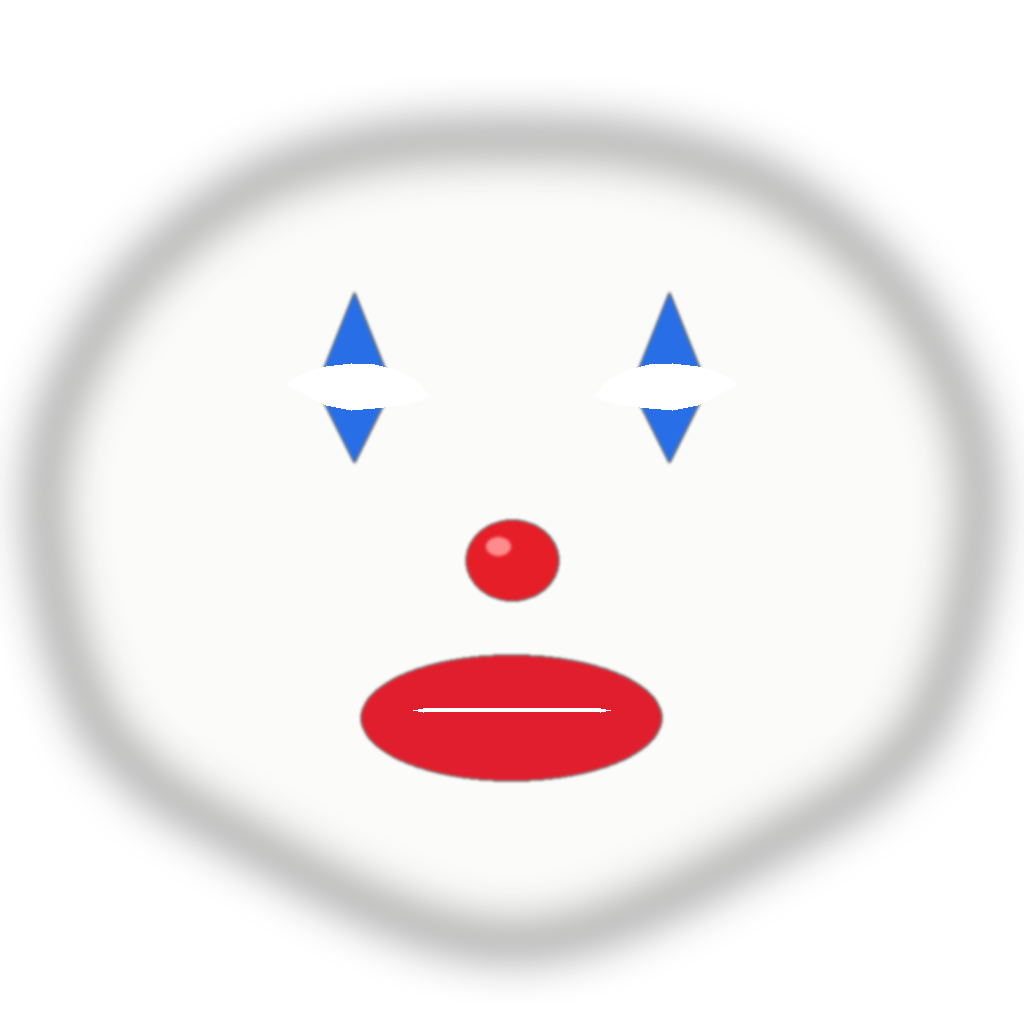
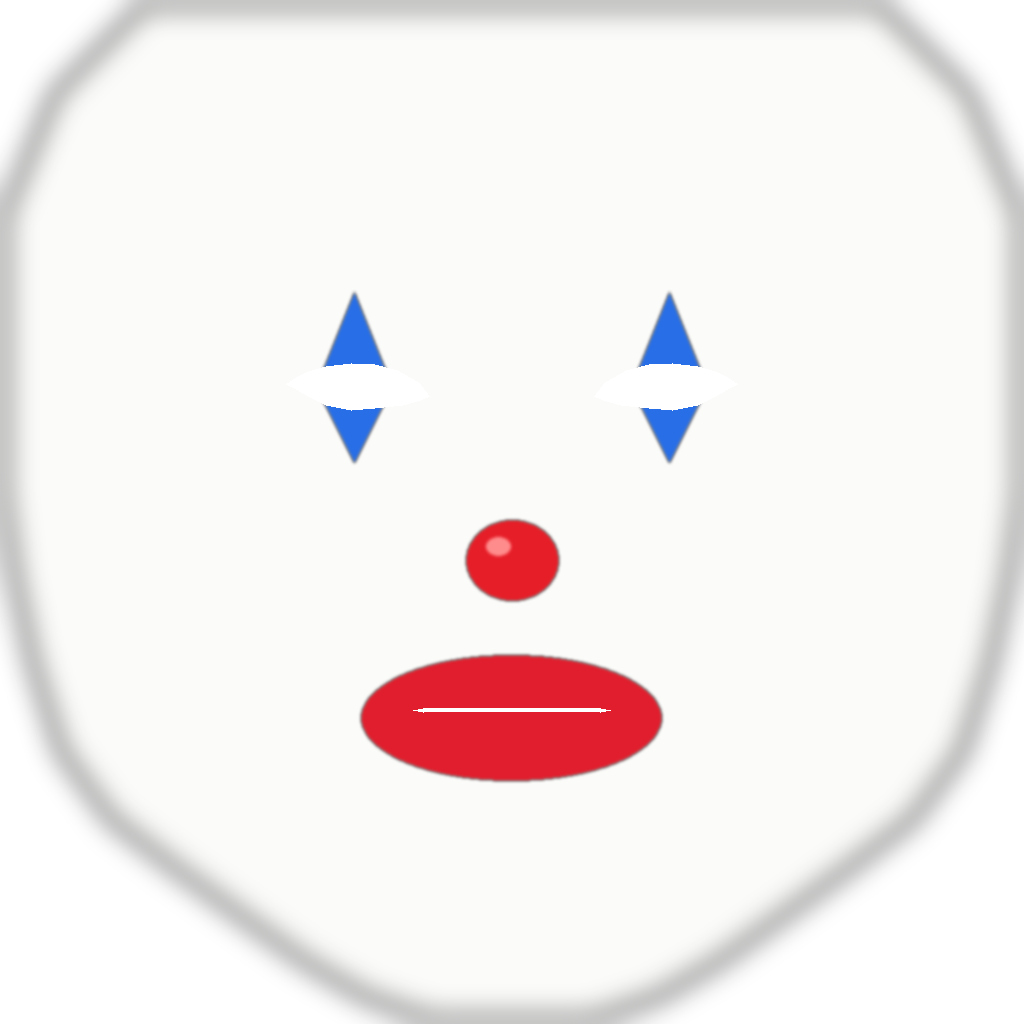
Face paint mesh carries on up the forehead and under the chin (fading out, and off hair); full-face paints fill it

Changed region(s): [[0.0, 0.0, 1.0, 1.0]]

diff --git a/web/js/facemesh.js b/web/js/facemesh.js
@@ -1,4 +1,8 @@
 // Lensmith face-paint mesh (from MediaPipe's canonical face model, Apache-2.0); made by
-// docs/face-paint/make_mesh.py. Triangles index the 468 face landmarks; UV has v pointing down.
-export const FACE_TRIANGLES = [356,389,264,127,34,162,368,264,389,139,162,34,267,0,302,37,72,0,11,302,0,11,0,72,349,451,350,120,121,231,452,350,451,232,231,121,267,302,269,37,39,72,303,269,302,73,72,39,357,343,350,128,121,114,277,350,343,47,114,121,350,452,357,121,128,232,453,357,452,233,232,128,299,333,297,69,67,104,332,297,333,103,104,67,175,152,396,175,171,152,377,396,152,148,152,171,280,347,330,50,101,118,348,330,347,119,118,101,269,303,270,39,40,73,304,270,303,74,73,40,9,336,151,9,151,107,337,151,336,108,107,151,344,278,360,115,131,48,279,360,278,49,48,131,262,431,418,32,194,211,424,418,431,204,211,194,304,408,270,74,40,184,409,270,408,185,184,40,272,407,310,42,80,183,415,310,407,191,183,80,322,270,410,92,186,40,409,410,270,185,40,186,347,449,348,118,119,229,450,348,449,230,229,119,434,432,430,214,210,212,422,430,432,202,212,210,313,314,18,83,18,84,17,18,314,17,84,18,307,375,306,77,76,146,291,306,375,61,146,76,259,387,260,29,30,160,388,260,387,161,160,30,286,414,384,56,157,190,398,384,414,173,190,157,418,424,406,194,182,204,335,406,424,106,204,182,367,416,364,138,135,192,434,364,416,214,192,135,391,423,327,165,98,203,358,327,423,129,203,98,298,301,284,68,54,71,251,284,301,21,71,54,4,275,5,4,5,45,281,5,275,51,45,5,254,373,253,24,23,144,374,253,373,145,144,23,320,321,307,90,77,91,375,307,321,146,91,77,280,425,411,50,187,205,427,411,425,207,205,187,421,313,200,201,200,83,18,200,313,18,83,200,335,321,406,106,182,91,405,406,321,181,91,182,405,321,404,181,180,91,320,404,321,90,91,180,17,314,16,17,16,84,315,16,314,85,84,16,425,266,426,205,206,36,423,426,266,203,36,206,369,396,400,140,176,171,377,400,396,148,171,176,391,269,322,165,92,39,270,322,269,40,39,92,417,465,413,193,189,245,464,413,465,244,245,189,257,258,386,27,159,28,385,386,258,158,28,159,260,388,467,30,247,161,466,467,388,246,161,247,248,456,419,3,196,236,399,419,456,174,236,196,333,298,332,104,103,68,284,332,298,54,68,103,285,8,417,55,193,8,168,417,8,168,8,193,340,261,346,111,117,31,448,346,261,228,31,117,285,417,441,55,221,193,413,441,417,189,193,221,327,460,326,98,97,240,328,326,460,99,240,97,277,355,329,47,100,126,371,329,355,142,126,100,309,392,438,79,218,166,439,438,392,219,166,218,381,382,256,154,26,155,341,256,382,112,155,26,360,279,420,131,198,49,429,420,279,209,49,198,365,364,379,136,150,135,394,379,364,169,135,150,355,277,437,126,217,47,343,437,277,114,47,217,443,444,282,223,52,224,283,282,444,53,224,52,281,275,363,51,134,45,440,363,275,220,45,134,431,262,395,211,170,32,369,395,262,140,32,170,337,299,338,108,109,69,297,338,299,67,69,109,335,273,321,106,91,43,375,321,273,146,43,91,348,450,349,119,120,230,451,349,450,231,230,120,467,359,342,247,113,130,446,342,359,226,130,113,282,283,334,52,105,53,293,334,283,63,53,105,250,458,462,20,242,238,461,462,458,241,238,242,276,353,300,46,70,124,383,300,353,156,124,70,325,292,324,96,95,62,308,324,292,78,62,95,283,276,293,53,63,46,300,293,276,70,46,63,447,264,345,227,116,34,372,345,264,143,34,116,352,345,346,123,117,116,340,346,345,111,116,117,1,19,274,1,44,19,354,274,19,125,19,44,248,281,456,3,236,51,363,456,281,134,51,236,425,426,427,205,207,206,436,427,426,216,206,207,380,381,252,153,22,154,256,252,381,26,154,22,391,393,269,165,39,167,267,269,393,37,167,39,199,428,200,199,200,208,421,200,428,201,208,200,330,329,266,101,36,100,371,266,329,142,100,36,422,432,273,202,43,212,287,273,432,57,212,43,290,250,328,60,99,20,462,328,250,242,20,99,258,286,385,28,158,56,384,385,286,157,56,158,342,446,353,113,124,226,265,353,446,35,226,124,257,386,259,27,29,159,387,259,386,160,159,29,430,422,431,210,211,202,424,431,422,204,202,211,445,342,276,225,46,113,353,276,342,124,113,46,424,422,335,204,106,202,273,335,422,43,202,106,306,292,307,76,77,62,325,307,292,96,62,77,366,447,352,137,123,227,345,352,447,116,227,123,302,268,303,72,73,38,271,303,268,41,38,73,371,358,266,142,36,129,423,266,358,203,129,36,327,294,460,98,240,64,455,460,294,235,64,240,294,331,278,64,48,102,279,278,331,49,102,48,303,271,304,73,74,41,272,304,271,42,41,74,427,436,434,207,214,216,432,434,436,212,216,214,304,272,408,74,184,42,407,408,272,183,42,184,394,430,395,169,170,210,431,395,430,211,210,170,395,369,378,170,149,140,400,378,369,176,140,149,296,334,299,66,69,105,333,299,334,104,105,69,417,168,351,193,122,168,6,351,168,6,168,122,280,411,352,50,123,187,376,352,411,147,187,123,319,320,325,89,96,90,307,325,320,77,90,96,285,295,336,55,107,65,296,336,295,66,65,107,404,320,403,180,179,90,319,403,320,89,90,179,330,348,329,101,100,119,349,329,348,120,119,100,334,293,333,105,104,63,298,333,293,68,63,104,323,454,366,93,137,234,447,366,454,227,234,137,16,315,15,16,15,85,316,15,315,86,85,15,429,279,358,209,129,49,331,358,279,102,49,129,15,316,14,15,14,86,317,14,316,87,86,14,8,285,9,8,9,55,336,9,285,107,55,9,329,349,277,100,47,120,350,277,349,121,120,47,252,253,380,22,153,23,374,380,253,145,23,153,402,403,318,178,88,179,319,318,403,89,179,88,351,6,419,122,196,6,197,419,6,197,6,196,324,318,325,95,96,88,319,325,318,89,88,96,397,367,365,172,136,138,364,365,367,135,138,136,288,435,397,58,172,215,367,397,435,138,215,172,438,439,344,218,115,219,278,344,439,48,219,115,271,311,272,41,42,81,310,311,272,80,42,81,5,281,195,5,195,51,248,195,281,3,51,195,273,287,375,43,146,57,291,375,287,61,57,146,396,428,175,171,175,208,199,175,428,199,208,175,268,312,271,38,41,82,311,271,312,81,82,41,444,445,283,224,53,225,276,283,445,46,225,53,254,339,373,24,144,110,390,373,339,163,110,144,295,282,296,65,66,52,334,296,282,105,52,66,346,448,347,117,118,228,449,347,448,229,228,118,454,356,447,234,227,127,264,447,356,34,127,227,336,296,337,107,108,66,299,337,296,69,66,108,151,337,10,151,10,108,338,10,337,109,108,10,278,439,294,48,64,219,455,294,439,235,219,64,407,292,415,183,191,62,308,292,415,78,191,62,358,371,429,129,209,142,355,429,371,126,142,209,345,372,340,116,111,143,265,340,372,35,143,111,352,346,280,123,50,117,347,280,346,118,117,50,295,442,282,65,52,222,443,282,442,223,222,52,19,94,354,19,125,94,370,354,94,141,94,125,295,285,442,65,222,55,441,442,285,221,55,222,419,197,248,196,3,197,195,248,197,195,197,3,359,263,255,130,25,33,249,255,263,7,33,25,275,274,440,45,220,44,457,440,274,237,44,220,300,383,301,70,71,156,368,301,383,139,156,71,417,351,465,193,245,122,412,465,351,188,122,245,466,263,467,246,247,33,359,467,263,130,33,247,389,251,368,162,139,21,301,368,251,71,21,139,379,394,378,150,149,169,395,378,394,170,169,149,351,419,412,122,188,196,399,412,419,174,196,188,426,322,436,206,216,92,410,436,322,186,92,216,393,326,164,167,164,97,2,164,326,2,97,164,354,370,461,125,241,141,462,461,370,242,141,241,0,267,164,0,164,37,393,164,267,167,37,164,11,12,302,11,72,12,268,302,12,38,12,72,12,13,268,12,38,13,312,268,13,82,13,38,293,300,298,63,68,70,301,298,300,71,70,68,340,265,261,111,31,35,446,261,265,226,35,31,280,330,425,50,205,101,266,425,330,36,101,205,423,391,426,203,206,165,322,426,391,92,165,206,429,355,420,209,198,126,437,420,355,217,126,198,391,327,393,165,167,98,326,393,327,97,98,167,457,438,440,237,220,218,344,440,438,115,218,220,382,362,341,155,112,133,463,341,362,243,133,112,457,461,459,237,239,241,458,461,459,238,239,241,434,430,364,214,135,210,394,364,430,169,210,135,414,463,398,190,173,243,362,398,463,133,243,173,262,428,369,32,140,208,396,369,428,171,208,140,457,274,461,237,241,44,354,461,274,125,44,241,316,403,317,86,87,179,402,317,403,178,179,87,315,404,316,85,86,180,403,316,404,179,180,86,314,405,315,84,85,181,404,315,405,180,181,85,313,406,314,83,84,182,405,314,406,181,182,84,418,406,421,194,201,182,313,421,406,83,182,201,366,401,323,137,93,177,361,323,401,132,177,93,408,407,306,184,76,183,292,306,407,62,183,76,408,306,409,184,185,76,291,409,306,61,76,185,410,409,287,186,57,185,291,287,409,61,185,57,436,410,432,216,212,186,287,432,410,57,186,212,434,416,427,214,207,192,411,427,416,187,192,207,264,368,372,34,143,139,383,372,368,156,139,143,457,459,438,237,218,239,309,438,459,79,239,218,352,376,366,123,137,147,401,366,376,177,147,137,4,1,275,4,45,1,274,275,1,44,1,45,428,262,421,208,201,32,418,421,262,194,32,201,327,358,294,98,64,129,331,294,358,102,129,64,367,435,416,138,192,215,433,416,435,213,215,192,455,439,289,235,59,219,392,289,439,166,219,59,328,462,326,99,97,242,370,326,462,141,242,97,326,370,2,97,2,141,94,2,370,94,141,2,460,455,305,240,75,235,289,305,455,59,235,75,448,339,449,228,229,110,254,449,339,24,110,229,261,446,255,31,25,226,359,255,446,130,226,25,449,254,450,229,230,24,253,450,254,23,24,230,450,253,451,230,231,23,252,451,253,22,23,231,451,252,452,231,232,22,256,452,252,26,22,232,256,341,452,26,232,112,453,452,341,233,112,232,413,464,414,189,190,244,463,414,464,243,244,190,441,413,286,221,56,189,414,286,413,190,189,56,441,286,442,221,222,56,258,442,286,28,56,222,442,258,443,222,223,28,257,443,258,27,28,223,444,443,259,224,29,223,257,259,443,27,223,29,259,260,444,29,224,30,445,444,260,225,30,224,260,467,445,30,225,247,342,445,467,113,247,225,250,309,458,20,238,79,459,458,309,239,79,238,290,305,392,60,166,75,289,392,305,59,75,166,460,305,328,240,99,75,290,328,305,60,75,99,376,433,401,147,177,213,435,401,433,215,213,177,250,290,309,20,79,60,392,309,290,166,60,79,411,416,376,187,147,192,433,376,416,213,192,147,341,463,453,112,233,243,464,453,463,244,243,233,453,464,357,233,128,244,465,357,464,245,244,128,412,343,465,188,245,114,357,465,343,128,114,245,437,343,399,217,174,114,412,399,343,188,114,174,363,440,360,134,131,220,344,360,440,115,220,131,456,420,399,236,174,198,437,399,420,217,198,174,456,363,420,236,198,134,360,420,363,131,134,198,361,401,288,132,58,177,435,288,401,215,177,58,353,265,383,124,156,35,372,383,265,143,35,156,255,249,339,25,110,7,390,339,249,163,7,110,261,255,448,31,228,25,339,448,255,110,25,228];
-export const FACE_UV = [0.49998,0.65253,0.50003,0.54749,0.49997,0.60237,0.48211,0.47198,0.50015,0.52716,0.49991,0.49825,0.49952,0.40106,0.28971,0.38076,0.49995,0.3124,0.49999,0.26992,0.50002,0.10705,0.50002,0.66623,0.50002,0.67922,0.50002,0.69235,0.49998,0.69528,0.49998,0.70593,0.49998,0.71938,0.49998,0.73702,0.49997,0.78137,0.49982,0.56298,0.47377,0.57391,0.10491,0.25414,0.36593,0.40958,0.33876,0.41302,0.31112,0.40946,0.27466,0.38913,0.39336,0.40371,0.34523,0.34401,0.37009,0.34608,0.31932,0.34727,0.2979,0.35359,0.24779,0.41081,0.39689,0.84276,0.2801,0.3756,0.10631,0.39996,0.20993,0.39135,0.35581,0.53441,0.47175,0.6504,0.47415,0.68019,0.43978,0.65723,0.41462,0.66654,0.45037,0.68086,0.42877,0.68269,0.37497,0.72781,0.48672,0.54763,0.4853,0.5274,0.25777,0.31449,0.40122,0.45517,0.42982,0.54862,0.42135,0.53374,0.2769,0.53206,0.48337,0.49959,0.33721,0.28288,0.29639,0.29324,0.1693,0.19381,0.44758,0.30261,0.39239,0.35389,0.35449,0.69678,0.06731,0.73011,0.44274,0.57283,0.4571,0.58479,0.38197,0.69471,0.39239,0.6942,0.27708,0.27193,0.42255,0.56323,0.38592,0.28136,0.3831,0.25584,0.33143,0.11971,0.22992,0.232,0.3645,0.18911,0.22962,0.29954,0.17329,0.27875,0.47288,0.6662,0.44683,0.66853,0.42276,0.67389,0.44531,0.58007,0.3881,0.69396,0.40304,0.70654,0.40363,0.69395,0.46004,0.55714,0.43116,0.69237,0.45218,0.69237,0.47539,0.69237,0.46583,0.77919,0.47233,0.73623,0.47309,0.71786,0.47312,0.70463,0.47303,0.69528,0.42794,0.69528,0.42648,0.70354,0.42316,0.71185,0.41831,0.72006,0.3901,0.63957,0.01395,0.56003,0.49991,0.58015,0.4132,0.6954,0.40963,0.70182,0.46808,0.60153,0.42273,0.58598,0.46308,0.59378,0.37212,0.47341,0.33456,0.49607,0.41167,0.54696,0.24218,0.14768,0.29078,0.20145,0.32734,0.25653,0.39951,0.74892,0.44173,0.26168,0.42977,0.18783,0.4122,0.1089,0.28896,0.39895,0.21894,0.43541,0.41278,0.39897,0.25714,0.35544,0.42768,0.43796,0.44834,0.53694,0.17856,0.45755,0.24731,0.45719,0.28627,0.46767,0.33283,0.46071,0.36876,0.44721,0.39896,0.43266,0.47641,0.40581,0.18924,0.52392,0.22896,0.34895,0.49073,0.5624,0.40467,0.48513,0.01947,0.40156,0.42624,0.42043,0.39699,0.5488,0.26647,0.37698,0.43912,0.51896,0.03231,0.64436,0.41905,0.38716,0.46278,0.50575,0.23898,0.77975,0.19822,0.83194,0.10755,0.54075,0.18361,0.74026,0.13441,0.33368,0.38576,0.88315,0.49097,0.57938,0.38238,0.50857,0.1744,0.39767,0.31878,0.39624,0.34336,0.4006,0.3961,0.71022,0.18788,0.58854,0.43099,0.94407,0.31899,0.89829,0.26625,0.8697,0.50002,0.19058,0.49998,0.95445,0.36617,0.39882,0.39321,0.39554,0.41037,0.39108,0.19499,0.3421,0.38866,0.36228,0.36596,0.35597,0.34336,0.35536,0.31878,0.35834,0.30141,0.36316,0.05813,0.31908,0.30141,0.38745,0.49999,0.61843,0.41584,0.6242,0.44568,0.56608,0.46584,0.62064,0.49992,0.35152,0.28872,0.81995,0.33528,0.85282,0.44051,0.90242,0.12829,0.79194,0.40877,0.37389,0.45561,0.4518,0.49988,0.90899,0.37544,0.92419,0.11421,0.61502,0.44866,0.69528,0.44802,0.70463,0.44711,0.71581,0.44483,0.73079,0.43001,0.76681,0.40679,0.68567,0.40074,0.68107,0.3924,0.6777,0.36786,0.66392,0.24792,0.60133,0.45277,0.42085,0.43639,0.35989,0.41616,0.36871,0.41339,0.69237,0.22802,0.68357,0.46827,0.35267,0.41136,0.80433,0.49999,0.46983,0.47915,0.44265,0.49997,0.43964,0.43211,0.49359,0.49989,0.86692,0.49991,0.82173,0.45655,0.8192,0.34455,0.74544,0.37891,0.57401,0.37429,0.78019,0.31969,0.57074,0.35716,0.60427,0.29528,0.62158,0.44775,0.86248,0.41099,0.50872,0.31395,0.77531,0.35413,0.81255,0.32455,0.70399,0.1891,0.6463,0.27978,0.71466,0.13382,0.6827,0.33677,0.64473,0.42988,0.46652,0.45553,0.54862,0.43711,0.5589,0.46729,0.52992,0.41471,0.33522,0.37705,0.32278,0.34411,0.32015,0.31288,0.32233,0.28353,0.33319,0.24125,0.38279,0.10299,0.46876,0.26761,0.42456,0.29788,0.43318,0.33343,0.43388,0.36643,0.42612,0.39601,0.4167,0.42012,0.41023,0.00756,0.48078,0.43295,0.56952,0.45864,0.47909,0.47347,0.54574,0.47609,0.56383,0.46847,0.55506,0.43399,0.58236,0.48352,0.56298,0.48248,0.57785,0.42645,0.3898,0.439,0.3965,0.45007,0.40043,0.28971,0.36825,0.27667,0.36337,0.51786,0.47195,0.71029,0.38076,0.52623,0.57391,0.89509,0.25414,0.63407,0.40958,0.66124,0.41302,0.68888,0.40946,0.72534,0.38913,0.60663,0.4037,0.65477,0.34401,0.62991,0.34608,0.68068,0.34727,0.7021,0.35359,0.75221,0.4108,0.60292,0.84286,0.7199,0.3756,0.89369,0.39996,0.79008,0.39135,0.644,0.53449,0.52825,0.6504,0.52585,0.68019,0.56022,0.65723,0.58538,0.66654,0.54963,0.68086,0.57123,0.68269,0.62485,0.7281,0.51305,0.54728,0.5151,0.52725,0.74225,0.31451,0.59863,0.45498,0.57034,0.54858,0.57863,0.53362,0.72309,0.53205,0.51645,0.49964,0.6628,0.28292,0.70362,0.29327,0.83071,0.19381,0.55239,0.30257,0.60761,0.35389,0.64543,0.69671,0.9327,0.73011,0.55726,0.57283,0.5429,0.58479,0.61803,0.69471,0.60759,0.6942,0.72294,0.27196,0.57741,0.56317,0.61408,0.28139,0.61691,0.25589,0.66851,0.11991,0.77009,0.23202,0.63554,0.18925,0.77039,0.29956,0.82672,0.27875,0.52712,0.6662,0.55317,0.66853,0.57724,0.67389,0.55469,0.58007,0.6119,0.69396,0.59696,0.70654,0.59637,0.69395,0.53996,0.55714,0.56884,0.69237,0.54782,0.69237,0.52461,0.69237,0.53409,0.77914,0.52767,0.73623,0.52691,0.71786,0.52688,0.70463,0.52697,0.69528,0.57206,0.69528,0.57352,0.70354,0.57684,0.71185,0.58169,0.72006,0.60994,0.63991,0.98605,0.56003,0.5868,0.6954,0.59037,0.70182,0.53192,0.60154,0.57727,0.58593,0.53692,0.59379,0.62754,0.47335,0.66559,0.49595,0.58835,0.54686,0.75782,0.14768,0.70925,0.20151,0.67268,0.25658,0.60041,0.749,0.55827,0.26167,0.5703,0.18787,0.58817,0.10904,0.71105,0.39895,0.78107,0.43541,0.58725,0.39893,0.74287,0.35545,0.57216,0.43765,0.55187,0.53657,0.82144,0.45756,0.7527,0.45718,0.71376,0.46763,0.66711,0.46067,0.6311,0.44715,0.60086,0.43247,0.52348,0.40563,0.81075,0.52393,0.77105,0.34896,0.50913,0.56272,0.59529,0.48502,0.98053,0.40156,0.5735,0.42,0.60299,0.54869,0.73353,0.37698,0.56061,0.51902,0.96769,0.64436,0.58098,0.38716,0.53773,0.50538,0.76097,0.77975,0.80178,0.83194,0.89244,0.54076,0.81635,0.74026,0.8656,0.33369,0.61407,0.88325,0.50895,0.57944,0.61794,0.50832,0.82561,0.39768,0.68122,0.39624,0.65664,0.4006,0.6039,0.71022,0.81209,0.58854,0.56801,0.94456,0.68101,0.89829,0.73375,0.8697,0.63383,0.39882,0.60679,0.39554,0.58966,0.39106,0.80502,0.34211,0.61133,0.36228,0.63404,0.35597,0.65664,0.35536,0.68122,0.35834,0.69859,0.36316,0.94187,0.31908,0.69859,0.38745,0.58418,0.62411,0.55432,0.56608,0.53415,0.62064,0.71122,0.81998,0.66463,0.85287,0.5591,0.90263,0.87171,0.79194,0.59123,0.37389,0.54434,0.45158,0.62456,0.92419,0.88577,0.61503,0.55134,0.69528,0.55198,0.70463,0.55289,0.71581,0.55517,0.73079,0.56994,0.76704,0.5932,0.68568,0.59926,0.68107,0.6076,0.6777,0.63194,0.6635,0.75203,0.60132,0.54723,0.42039,0.56354,0.35983,0.58384,0.36871,0.58661,0.69237,0.77192,0.68358,0.5316,0.35248,0.58837,0.80444,0.5208,0.44256,0.56798,0.49348,0.54328,0.81926,0.65532,0.74551,0.62101,0.57402,0.62556,0.78031,0.6802,0.57072,0.64276,0.60434,0.70466,0.62153,0.55201,0.86259,0.58907,0.50864,0.68595,0.77536,0.64573,0.81264,0.67534,0.70398,0.81086,0.64631,0.72012,0.71467,0.86615,0.68271,0.66319,0.6446,0.57008,0.46633,0.54456,0.54838,0.56276,0.55878,0.53199,0.53014,0.58527,0.33518,0.62295,0.32278,0.6559,0.32016,0.68713,0.32235,0.71648,0.3332,0.75876,0.38279,0.89701,0.46877,0.73239,0.42455,0.70211,0.43316,0.66653,0.43387,0.6335,0.42609,0.60388,0.41659,0.57966,0.40995,0.99244,0.48078,0.56719,0.56942,0.54137,0.4789,0.52656,0.54612,0.52391,0.56383,0.53153,0.55506,0.56604,0.58233,0.51631,0.56305,0.51747,0.57788,0.57359,0.38981,0.5607,0.39533,0.54976,0.39975,0.71029,0.36825,0.72333,0.36337];
+// docs/face-paint/make_mesh.py. Triangles index the 468 face landmarks, then the extension
+// points: FACE_EXTRA is [outline, inner, t] per point (point = outline + (outline - inner) * t)
+// and FACE_EXTRA_ALPHA how opaque each is. UV has v pointing down.
+export const FACE_TRIANGLES = [356,389,264,127,34,162,368,264,389,139,162,34,267,0,302,37,72,0,11,302,0,11,0,72,349,451,350,120,121,231,452,350,451,232,231,121,267,302,269,37,39,72,303,269,302,73,72,39,357,343,350,128,121,114,277,350,343,47,114,121,350,452,357,121,128,232,453,357,452,233,232,128,299,333,297,69,67,104,332,297,333,103,104,67,175,152,396,175,171,152,377,396,152,148,152,171,280,347,330,50,101,118,348,330,347,119,118,101,269,303,270,39,40,73,304,270,303,74,73,40,9,336,151,9,151,107,337,151,336,108,107,151,344,278,360,115,131,48,279,360,278,49,48,131,262,431,418,32,194,211,424,418,431,204,211,194,304,408,270,74,40,184,409,270,408,185,184,40,272,407,310,42,80,183,415,310,407,191,183,80,322,270,410,92,186,40,409,410,270,185,40,186,347,449,348,118,119,229,450,348,449,230,229,119,434,432,430,214,210,212,422,430,432,202,212,210,313,314,18,83,18,84,17,18,314,17,84,18,307,375,306,77,76,146,291,306,375,61,146,76,259,387,260,29,30,160,388,260,387,161,160,30,286,414,384,56,157,190,398,384,414,173,190,157,418,424,406,194,182,204,335,406,424,106,204,182,367,416,364,138,135,192,434,364,416,214,192,135,391,423,327,165,98,203,358,327,423,129,203,98,298,301,284,68,54,71,251,284,301,21,71,54,4,275,5,4,5,45,281,5,275,51,45,5,254,373,253,24,23,144,374,253,373,145,144,23,320,321,307,90,77,91,375,307,321,146,91,77,280,425,411,50,187,205,427,411,425,207,205,187,421,313,200,201,200,83,18,200,313,18,83,200,335,321,406,106,182,91,405,406,321,181,91,182,405,321,404,181,180,91,320,404,321,90,91,180,17,314,16,17,16,84,315,16,314,85,84,16,425,266,426,205,206,36,423,426,266,203,36,206,369,396,400,140,176,171,377,400,396,148,171,176,391,269,322,165,92,39,270,322,269,40,39,92,417,465,413,193,189,245,464,413,465,244,245,189,257,258,386,27,159,28,385,386,258,158,28,159,260,388,467,30,247,161,466,467,388,246,161,247,248,456,419,3,196,236,399,419,456,174,236,196,333,298,332,104,103,68,284,332,298,54,68,103,285,8,417,55,193,8,168,417,8,168,8,193,340,261,346,111,117,31,448,346,261,228,31,117,285,417,441,55,221,193,413,441,417,189,193,221,327,460,326,98,97,240,328,326,460,99,240,97,277,355,329,47,100,126,371,329,355,142,126,100,309,392,438,79,218,166,439,438,392,219,166,218,381,382,256,154,26,155,341,256,382,112,155,26,360,279,420,131,198,49,429,420,279,209,49,198,365,364,379,136,150,135,394,379,364,169,135,150,355,277,437,126,217,47,343,437,277,114,47,217,443,444,282,223,52,224,283,282,444,53,224,52,281,275,363,51,134,45,440,363,275,220,45,134,431,262,395,211,170,32,369,395,262,140,32,170,337,299,338,108,109,69,297,338,299,67,69,109,335,273,321,106,91,43,375,321,273,146,43,91,348,450,349,119,120,230,451,349,450,231,230,120,467,359,342,247,113,130,446,342,359,226,130,113,282,283,334,52,105,53,293,334,283,63,53,105,250,458,462,20,242,238,461,462,458,241,238,242,276,353,300,46,70,124,383,300,353,156,124,70,325,292,324,96,95,62,308,324,292,78,62,95,283,276,293,53,63,46,300,293,276,70,46,63,447,264,345,227,116,34,372,345,264,143,34,116,352,345,346,123,117,116,340,346,345,111,116,117,1,19,274,1,44,19,354,274,19,125,19,44,248,281,456,3,236,51,363,456,281,134,51,236,425,426,427,205,207,206,436,427,426,216,206,207,380,381,252,153,22,154,256,252,381,26,154,22,391,393,269,165,39,167,267,269,393,37,167,39,199,428,200,199,200,208,421,200,428,201,208,200,330,329,266,101,36,100,371,266,329,142,100,36,422,432,273,202,43,212,287,273,432,57,212,43,290,250,328,60,99,20,462,328,250,242,20,99,258,286,385,28,158,56,384,385,286,157,56,158,342,446,353,113,124,226,265,353,446,35,226,124,257,386,259,27,29,159,387,259,386,160,159,29,430,422,431,210,211,202,424,431,422,204,202,211,445,342,276,225,46,113,353,276,342,124,113,46,424,422,335,204,106,202,273,335,422,43,202,106,306,292,307,76,77,62,325,307,292,96,62,77,366,447,352,137,123,227,345,352,447,116,227,123,302,268,303,72,73,38,271,303,268,41,38,73,371,358,266,142,36,129,423,266,358,203,129,36,327,294,460,98,240,64,455,460,294,235,64,240,294,331,278,64,48,102,279,278,331,49,102,48,303,271,304,73,74,41,272,304,271,42,41,74,427,436,434,207,214,216,432,434,436,212,216,214,304,272,408,74,184,42,407,408,272,183,42,184,394,430,395,169,170,210,431,395,430,211,210,170,395,369,378,170,149,140,400,378,369,176,140,149,296,334,299,66,69,105,333,299,334,104,105,69,417,168,351,193,122,168,6,351,168,6,168,122,280,411,352,50,123,187,376,352,411,147,187,123,319,320,325,89,96,90,307,325,320,77,90,96,285,295,336,55,107,65,296,336,295,66,65,107,404,320,403,180,179,90,319,403,320,89,90,179,330,348,329,101,100,119,349,329,348,120,119,100,334,293,333,105,104,63,298,333,293,68,63,104,323,454,366,93,137,234,447,366,454,227,234,137,16,315,15,16,15,85,316,15,315,86,85,15,429,279,358,209,129,49,331,358,279,102,49,129,15,316,14,15,14,86,317,14,316,87,86,14,8,285,9,8,9,55,336,9,285,107,55,9,329,349,277,100,47,120,350,277,349,121,120,47,252,253,380,22,153,23,374,380,253,145,23,153,402,403,318,178,88,179,319,318,403,89,179,88,351,6,419,122,196,6,197,419,6,197,6,196,324,318,325,95,96,88,319,325,318,89,88,96,397,367,365,172,136,138,364,365,367,135,138,136,288,435,397,58,172,215,367,397,435,138,215,172,438,439,344,218,115,219,278,344,439,48,219,115,271,311,272,41,42,81,310,311,272,80,42,81,5,281,195,5,195,51,248,195,281,3,51,195,273,287,375,43,146,57,291,375,287,61,57,146,396,428,175,171,175,208,199,175,428,199,208,175,268,312,271,38,41,82,311,271,312,81,82,41,444,445,283,224,53,225,276,283,445,46,225,53,254,339,373,24,144,110,390,373,339,163,110,144,295,282,296,65,66,52,334,296,282,105,52,66,346,448,347,117,118,228,449,347,448,229,228,118,454,356,447,234,227,127,264,447,356,34,127,227,336,296,337,107,108,66,299,337,296,69,66,108,151,337,10,151,10,108,338,10,337,109,108,10,278,439,294,48,64,219,455,294,439,235,219,64,407,292,415,183,191,62,308,292,415,78,191,62,358,371,429,129,209,142,355,429,371,126,142,209,345,372,340,116,111,143,265,340,372,35,143,111,352,346,280,123,50,117,347,280,346,118,117,50,295,442,282,65,52,222,443,282,442,223,222,52,19,94,354,19,125,94,370,354,94,141,94,125,295,285,442,65,222,55,441,442,285,221,55,222,419,197,248,196,3,197,195,248,197,195,197,3,359,263,255,130,25,33,249,255,263,7,33,25,275,274,440,45,220,44,457,440,274,237,44,220,300,383,301,70,71,156,368,301,383,139,156,71,417,351,465,193,245,122,412,465,351,188,122,245,466,263,467,246,247,33,359,467,263,130,33,247,389,251,368,162,139,21,301,368,251,71,21,139,379,394,378,150,149,169,395,378,394,170,169,149,351,419,412,122,188,196,399,412,419,174,196,188,426,322,436,206,216,92,410,436,322,186,92,216,393,326,164,167,164,97,2,164,326,2,97,164,354,370,461,125,241,141,462,461,370,242,141,241,0,267,164,0,164,37,393,164,267,167,37,164,11,12,302,11,72,12,268,302,12,38,12,72,12,13,268,12,38,13,312,268,13,82,13,38,293,300,298,63,68,70,301,298,300,71,70,68,340,265,261,111,31,35,446,261,265,226,35,31,280,330,425,50,205,101,266,425,330,36,101,205,423,391,426,203,206,165,322,426,391,92,165,206,429,355,420,209,198,126,437,420,355,217,126,198,391,327,393,165,167,98,326,393,327,97,98,167,457,438,440,237,220,218,344,440,438,115,218,220,382,362,341,155,112,133,463,341,362,243,133,112,457,461,459,237,239,241,458,461,459,238,239,241,434,430,364,214,135,210,394,364,430,169,210,135,414,463,398,190,173,243,362,398,463,133,243,173,262,428,369,32,140,208,396,369,428,171,208,140,457,274,461,237,241,44,354,461,274,125,44,241,316,403,317,86,87,179,402,317,403,178,179,87,315,404,316,85,86,180,403,316,404,179,180,86,314,405,315,84,85,181,404,315,405,180,181,85,313,406,314,83,84,182,405,314,406,181,182,84,418,406,421,194,201,182,313,421,406,83,182,201,366,401,323,137,93,177,361,323,401,132,177,93,408,407,306,184,76,183,292,306,407,62,183,76,408,306,409,184,185,76,291,409,306,61,76,185,410,409,287,186,57,185,291,287,409,61,185,57,436,410,432,216,212,186,287,432,410,57,186,212,434,416,427,214,207,192,411,427,416,187,192,207,264,368,372,34,143,139,383,372,368,156,139,143,457,459,438,237,218,239,309,438,459,79,239,218,352,376,366,123,137,147,401,366,376,177,147,137,4,1,275,4,45,1,274,275,1,44,1,45,428,262,421,208,201,32,418,421,262,194,32,201,327,358,294,98,64,129,331,294,358,102,129,64,367,435,416,138,192,215,433,416,435,213,215,192,455,439,289,235,59,219,392,289,439,166,219,59,328,462,326,99,97,242,370,326,462,141,242,97,326,370,2,97,2,141,94,2,370,94,141,2,460,455,305,240,75,235,289,305,455,59,235,75,448,339,449,228,229,110,254,449,339,24,110,229,261,446,255,31,25,226,359,255,446,130,226,25,449,254,450,229,230,24,253,450,254,23,24,230,450,253,451,230,231,23,252,451,253,22,23,231,451,252,452,231,232,22,256,452,252,26,22,232,256,341,452,26,232,112,453,452,341,233,112,232,413,464,414,189,190,244,463,414,464,243,244,190,441,413,286,221,56,189,414,286,413,190,189,56,441,286,442,221,222,56,258,442,286,28,56,222,442,258,443,222,223,28,257,443,258,27,28,223,444,443,259,224,29,223,257,259,443,27,223,29,259,260,444,29,224,30,445,444,260,225,30,224,260,467,445,30,225,247,342,445,467,113,247,225,250,309,458,20,238,79,459,458,309,239,79,238,290,305,392,60,166,75,289,392,305,59,75,166,460,305,328,240,99,75,290,328,305,60,75,99,376,433,401,147,177,213,435,401,433,215,213,177,250,290,309,20,79,60,392,309,290,166,60,79,411,416,376,187,147,192,433,376,416,213,192,147,341,463,453,112,233,243,464,453,463,244,243,233,453,464,357,233,128,244,465,357,464,245,244,128,412,343,465,188,245,114,357,465,343,128,114,245,437,343,399,217,174,114,412,399,343,188,114,174,363,440,360,134,131,220,344,360,440,115,220,131,456,420,399,236,174,198,437,399,420,217,198,174,456,363,420,236,198,134,360,420,363,131,134,198,361,401,288,132,58,177,435,288,401,215,177,58,353,265,383,124,156,35,372,383,265,143,35,156,255,249,339,25,110,7,390,339,249,163,7,110,261,255,448,31,228,25,339,448,255,110,25,228,10,338,469,10,469,468,338,297,470,338,470,469,297,332,471,297,471,470,332,284,472,332,472,471,284,251,473,284,473,472,251,389,474,251,474,473,389,356,475,389,475,474,356,454,476,356,476,475,454,323,477,454,477,476,323,361,478,323,478,477,361,288,479,361,479,478,288,397,480,288,480,479,397,365,481,397,481,480,365,379,482,365,482,481,379,378,483,379,483,482,378,400,484,378,484,483,400,377,485,400,485,484,377,152,486,377,486,485,152,148,487,152,487,486,148,176,488,148,488,487,176,149,489,176,489,488,149,150,490,149,490,489,150,136,491,150,491,490,136,172,492,136,492,491,172,58,493,172,493,492,58,132,494,58,494,493,132,93,495,132,495,494,93,234,496,93,496,495,234,127,497,234,497,496,127,162,498,127,498,497,162,21,499,162,499,498,21,54,500,21,500,499,54,103,501,54,501,500,103,67,502,103,502,501,67,109,503,67,503,502,109,10,468,109,468,503,468,469,505,468,505,504,469,470,506,469,506,505,470,471,507,470,507,506,471,472,508,471,508,507,472,473,509,472,509,508,473,474,510,473,510,509,474,475,511,474,511,510,475,476,512,475,512,511,476,477,513,476,513,512,477,478,514,477,514,513,478,479,515,478,515,514,479,480,516,479,516,515,480,481,517,480,517,516,481,482,518,481,518,517,482,483,519,482,519,518,483,484,520,483,520,519,484,485,521,484,521,520,485,486,522,485,522,521,486,487,523,486,523,522,487,488,524,487,524,523,488,489,525,488,525,524,489,490,526,489,526,525,490,491,527,490,527,526,491,492,528,491,528,527,492,493,529,492,529,528,493,494,530,493,530,529,494,495,531,494,531,530,495,496,532,495,532,531,496,497,533,496,533,532,497,498,534,497,534,533,498,499,535,498,535,534,499,500,536,499,536,535,500,501,537,500,537,536,501,502,538,501,538,537,502,503,539,502,539,538,503,468,504,503,504,539];
+export const FACE_UV = [0.49998,0.65253,0.50003,0.54749,0.49997,0.60237,0.48211,0.47198,0.50015,0.52716,0.49991,0.49825,0.49952,0.40106,0.28971,0.38076,0.49995,0.3124,0.49999,0.26992,0.50002,0.10705,0.50002,0.66623,0.50002,0.67922,0.50002,0.69235,0.49998,0.69528,0.49998,0.70593,0.49998,0.71938,0.49998,0.73702,0.49997,0.78137,0.49982,0.56298,0.47377,0.57391,0.10491,0.25414,0.36593,0.40958,0.33876,0.41302,0.31112,0.40946,0.27466,0.38913,0.39336,0.40371,0.34523,0.34401,0.37009,0.34608,0.31932,0.34727,0.2979,0.35359,0.24779,0.41081,0.39689,0.84276,0.2801,0.3756,0.10631,0.39996,0.20993,0.39135,0.35581,0.53441,0.47175,0.6504,0.47415,0.68019,0.43978,0.65723,0.41462,0.66654,0.45037,0.68086,0.42877,0.68269,0.37497,0.72781,0.48672,0.54763,0.4853,0.5274,0.25777,0.31449,0.40122,0.45517,0.42982,0.54862,0.42135,0.53374,0.2769,0.53206,0.48337,0.49959,0.33721,0.28288,0.29639,0.29324,0.1693,0.19381,0.44758,0.30261,0.39239,0.35389,0.35449,0.69678,0.06731,0.73011,0.44274,0.57283,0.4571,0.58479,0.38197,0.69471,0.39239,0.6942,0.27708,0.27193,0.42255,0.56323,0.38592,0.28136,0.3831,0.25584,0.33143,0.11971,0.22992,0.232,0.3645,0.18911,0.22962,0.29954,0.17329,0.27875,0.47288,0.6662,0.44683,0.66853,0.42276,0.67389,0.44531,0.58007,0.3881,0.69396,0.40304,0.70654,0.40363,0.69395,0.46004,0.55714,0.43116,0.69237,0.45218,0.69237,0.47539,0.69237,0.46583,0.77919,0.47233,0.73623,0.47309,0.71786,0.47312,0.70463,0.47303,0.69528,0.42794,0.69528,0.42648,0.70354,0.42316,0.71185,0.41831,0.72006,0.3901,0.63957,0.01395,0.56003,0.49991,0.58015,0.4132,0.6954,0.40963,0.70182,0.46808,0.60153,0.42273,0.58598,0.46308,0.59378,0.37212,0.47341,0.33456,0.49607,0.41167,0.54696,0.24218,0.14768,0.29078,0.20145,0.32734,0.25653,0.39951,0.74892,0.44173,0.26168,0.42977,0.18783,0.4122,0.1089,0.28896,0.39895,0.21894,0.43541,0.41278,0.39897,0.25714,0.35544,0.42768,0.43796,0.44834,0.53694,0.17856,0.45755,0.24731,0.45719,0.28627,0.46767,0.33283,0.46071,0.36876,0.44721,0.39896,0.43266,0.47641,0.40581,0.18924,0.52392,0.22896,0.34895,0.49073,0.5624,0.40467,0.48513,0.01947,0.40156,0.42624,0.42043,0.39699,0.5488,0.26647,0.37698,0.43912,0.51896,0.03231,0.64436,0.41905,0.38716,0.46278,0.50575,0.23898,0.77975,0.19822,0.83194,0.10755,0.54075,0.18361,0.74026,0.13441,0.33368,0.38576,0.88315,0.49097,0.57938,0.38238,0.50857,0.1744,0.39767,0.31878,0.39624,0.34336,0.4006,0.3961,0.71022,0.18788,0.58854,0.43099,0.94407,0.31899,0.89829,0.26625,0.8697,0.50002,0.19058,0.49998,0.95445,0.36617,0.39882,0.39321,0.39554,0.41037,0.39108,0.19499,0.3421,0.38866,0.36228,0.36596,0.35597,0.34336,0.35536,0.31878,0.35834,0.30141,0.36316,0.05813,0.31908,0.30141,0.38745,0.49999,0.61843,0.41584,0.6242,0.44568,0.56608,0.46584,0.62064,0.49992,0.35152,0.28872,0.81995,0.33528,0.85282,0.44051,0.90242,0.12829,0.79194,0.40877,0.37389,0.45561,0.4518,0.49988,0.90899,0.37544,0.92419,0.11421,0.61502,0.44866,0.69528,0.44802,0.70463,0.44711,0.71581,0.44483,0.73079,0.43001,0.76681,0.40679,0.68567,0.40074,0.68107,0.3924,0.6777,0.36786,0.66392,0.24792,0.60133,0.45277,0.42085,0.43639,0.35989,0.41616,0.36871,0.41339,0.69237,0.22802,0.68357,0.46827,0.35267,0.41136,0.80433,0.49999,0.46983,0.47915,0.44265,0.49997,0.43964,0.43211,0.49359,0.49989,0.86692,0.49991,0.82173,0.45655,0.8192,0.34455,0.74544,0.37891,0.57401,0.37429,0.78019,0.31969,0.57074,0.35716,0.60427,0.29528,0.62158,0.44775,0.86248,0.41099,0.50872,0.31395,0.77531,0.35413,0.81255,0.32455,0.70399,0.1891,0.6463,0.27978,0.71466,0.13382,0.6827,0.33677,0.64473,0.42988,0.46652,0.45553,0.54862,0.43711,0.5589,0.46729,0.52992,0.41471,0.33522,0.37705,0.32278,0.34411,0.32015,0.31288,0.32233,0.28353,0.33319,0.24125,0.38279,0.10299,0.46876,0.26761,0.42456,0.29788,0.43318,0.33343,0.43388,0.36643,0.42612,0.39601,0.4167,0.42012,0.41023,0.00756,0.48078,0.43295,0.56952,0.45864,0.47909,0.47347,0.54574,0.47609,0.56383,0.46847,0.55506,0.43399,0.58236,0.48352,0.56298,0.48248,0.57785,0.42645,0.3898,0.439,0.3965,0.45007,0.40043,0.28971,0.36825,0.27667,0.36337,0.51786,0.47195,0.71029,0.38076,0.52623,0.57391,0.89509,0.25414,0.63407,0.40958,0.66124,0.41302,0.68888,0.40946,0.72534,0.38913,0.60663,0.4037,0.65477,0.34401,0.62991,0.34608,0.68068,0.34727,0.7021,0.35359,0.75221,0.4108,0.60292,0.84286,0.7199,0.3756,0.89369,0.39996,0.79008,0.39135,0.644,0.53449,0.52825,0.6504,0.52585,0.68019,0.56022,0.65723,0.58538,0.66654,0.54963,0.68086,0.57123,0.68269,0.62485,0.7281,0.51305,0.54728,0.5151,0.52725,0.74225,0.31451,0.59863,0.45498,0.57034,0.54858,0.57863,0.53362,0.72309,0.53205,0.51645,0.49964,0.6628,0.28292,0.70362,0.29327,0.83071,0.19381,0.55239,0.30257,0.60761,0.35389,0.64543,0.69671,0.9327,0.73011,0.55726,0.57283,0.5429,0.58479,0.61803,0.69471,0.60759,0.6942,0.72294,0.27196,0.57741,0.56317,0.61408,0.28139,0.61691,0.25589,0.66851,0.11991,0.77009,0.23202,0.63554,0.18925,0.77039,0.29956,0.82672,0.27875,0.52712,0.6662,0.55317,0.66853,0.57724,0.67389,0.55469,0.58007,0.6119,0.69396,0.59696,0.70654,0.59637,0.69395,0.53996,0.55714,0.56884,0.69237,0.54782,0.69237,0.52461,0.69237,0.53409,0.77914,0.52767,0.73623,0.52691,0.71786,0.52688,0.70463,0.52697,0.69528,0.57206,0.69528,0.57352,0.70354,0.57684,0.71185,0.58169,0.72006,0.60994,0.63991,0.98605,0.56003,0.5868,0.6954,0.59037,0.70182,0.53192,0.60154,0.57727,0.58593,0.53692,0.59379,0.62754,0.47335,0.66559,0.49595,0.58835,0.54686,0.75782,0.14768,0.70925,0.20151,0.67268,0.25658,0.60041,0.749,0.55827,0.26167,0.5703,0.18787,0.58817,0.10904,0.71105,0.39895,0.78107,0.43541,0.58725,0.39893,0.74287,0.35545,0.57216,0.43765,0.55187,0.53657,0.82144,0.45756,0.7527,0.45718,0.71376,0.46763,0.66711,0.46067,0.6311,0.44715,0.60086,0.43247,0.52348,0.40563,0.81075,0.52393,0.77105,0.34896,0.50913,0.56272,0.59529,0.48502,0.98053,0.40156,0.5735,0.42,0.60299,0.54869,0.73353,0.37698,0.56061,0.51902,0.96769,0.64436,0.58098,0.38716,0.53773,0.50538,0.76097,0.77975,0.80178,0.83194,0.89244,0.54076,0.81635,0.74026,0.8656,0.33369,0.61407,0.88325,0.50895,0.57944,0.61794,0.50832,0.82561,0.39768,0.68122,0.39624,0.65664,0.4006,0.6039,0.71022,0.81209,0.58854,0.56801,0.94456,0.68101,0.89829,0.73375,0.8697,0.63383,0.39882,0.60679,0.39554,0.58966,0.39106,0.80502,0.34211,0.61133,0.36228,0.63404,0.35597,0.65664,0.35536,0.68122,0.35834,0.69859,0.36316,0.94187,0.31908,0.69859,0.38745,0.58418,0.62411,0.55432,0.56608,0.53415,0.62064,0.71122,0.81998,0.66463,0.85287,0.5591,0.90263,0.87171,0.79194,0.59123,0.37389,0.54434,0.45158,0.62456,0.92419,0.88577,0.61503,0.55134,0.69528,0.55198,0.70463,0.55289,0.71581,0.55517,0.73079,0.56994,0.76704,0.5932,0.68568,0.59926,0.68107,0.6076,0.6777,0.63194,0.6635,0.75203,0.60132,0.54723,0.42039,0.56354,0.35983,0.58384,0.36871,0.58661,0.69237,0.77192,0.68358,0.5316,0.35248,0.58837,0.80444,0.5208,0.44256,0.56798,0.49348,0.54328,0.81926,0.65532,0.74551,0.62101,0.57402,0.62556,0.78031,0.6802,0.57072,0.64276,0.60434,0.70466,0.62153,0.55201,0.86259,0.58907,0.50864,0.68595,0.77536,0.64573,0.81264,0.67534,0.70398,0.81086,0.64631,0.72012,0.71467,0.86615,0.68271,0.66319,0.6446,0.57008,0.46633,0.54456,0.54838,0.56276,0.55878,0.53199,0.53014,0.58527,0.33518,0.62295,0.32278,0.6559,0.32016,0.68713,0.32235,0.71648,0.3332,0.75876,0.38279,0.89701,0.46877,0.73239,0.42455,0.70211,0.43316,0.66653,0.43387,0.6335,0.42609,0.60388,0.41659,0.57966,0.40995,0.99244,0.48078,0.56719,0.56942,0.54137,0.4789,0.52656,0.54612,0.52391,0.56383,0.53153,0.55506,0.56604,0.58233,0.51631,0.56305,0.51747,0.57788,0.57359,0.38981,0.5607,0.39533,0.54976,0.39975,0.71029,0.36825,0.72333,0.36337,0.50003,0.05552,0.59846,0.05652,0.6905,0.06196,0.80816,0.07603,0.88816,0.14238,0.94555,0.23181,0.96893,0.30966,0.98827,0.39968,0.99422,0.48086,0.98605,0.56003,0.96821,0.64446,0.93617,0.73176,0.88125,0.79622,0.81542,0.83999,0.74543,0.88488,0.69197,0.91859,0.63329,0.94931,0.57329,0.97028,0.49998,0.97523,0.4255,0.97003,0.36671,0.94934,0.30804,0.9186,0.25459,0.88491,0.18459,0.84,0.11875,0.79622,0.06383,0.73176,0.03179,0.64446,0.01395,0.56003,0.00578,0.48086,0.01173,0.39968,0.03107,0.30966,0.05445,0.23181,0.11184,0.14239,0.19183,0.07605,0.30947,0.06186,0.40206,0.05645,0.50005,0.004,0.60874,0.004,0.7125,0.004,0.85851,0.00438,0.94561,0.09095,0.996,0.20948,0.996,0.30024,0.996,0.39779,0.996,0.48094,0.98605,0.56003,0.96874,0.64457,0.93965,0.73342,0.8908,0.80049,0.82907,0.84804,0.7571,0.90006,0.70294,0.9389,0.64202,0.97443,0.57856,0.996,0.49998,0.996,0.42001,0.996,0.35799,0.9745,0.29709,0.93892,0.24294,0.90012,0.17096,0.84805,0.10921,0.80049,0.06035,0.73342,0.03126,0.64457,0.01395,0.56003,0.004,0.48094,0.004,0.39779,0.004,0.30024,0.004,0.20948,0.05438,0.09096,0.14148,0.00442,0.28751,0.004,0.39192,0.004];
+export const FACE_EXTRA = [10,9,0.66651,338,336,0.66676,297,296,0.66637,332,282,0.52977,284,444,0.40016,251,445,0.37133,389,446,0.30095,356,346,0.166,454,347,0.04464,323,280,0.0,361,411,0.00244,288,427,0.01525,397,432,0.04861,365,422,0.09316,379,273,0.1072,378,335,0.13603,400,406,0.15982,377,313,0.17715,152,18,0.1844,148,83,0.17715,176,182,0.15982,149,106,0.13603,150,43,0.1072,136,202,0.09316,172,212,0.04861,58,207,0.01525,132,187,0.00244,93,50,0.0,234,118,0.04464,127,117,0.166,162,226,0.30095,21,225,0.37133,54,224,0.40016,103,52,0.52977,67,66,0.66637,109,107,0.66676,10,9,1.33302,338,336,1.33353,297,296,1.33274,332,282,1.05955,284,444,0.80033,251,445,0.74266,389,446,0.60189,356,346,0.33199,454,347,0.08928,323,280,1e-05,361,411,0.00489,288,427,0.03051,397,432,0.09722,365,422,0.18632,379,273,0.21441,378,335,0.27206,400,406,0.31964,377,313,0.3543,152,18,0.3688,148,83,0.3543,176,182,0.31964,149,106,0.27206,150,43,0.21441,136,202,0.18632,172,212,0.09722,58,207,0.03051,132,187,0.00489,93,50,1e-05,234,118,0.08928,127,117,0.33199,162,226,0.60189,21,225,0.74266,54,224,0.80033,103,52,1.05955,67,66,1.33274,109,107,1.33353];
+export const FACE_EXTRA_ALPHA = [0.8,0.8,0.8,0.8,0.8,0.8,0.8,0.8,0.8,0.8,0.8,0.8,0.8,0.8,0.8,0.8,0.8,0.8,0.8,0.8,0.8,0.8,0.8,0.8,0.8,0.8,0.8,0.8,0.8,0.8,0.8,0.8,0.8,0.8,0.8,0.8,0.0,0.0,0.0,0.0,0.0,0.0,0.0,0.0,0.0,0.0,0.0,0.0,0.0,0.0,0.0,0.0,0.0,0.0,0.0,0.0,0.0,0.0,0.0,0.0,0.0,0.0,0.0,0.0,0.0,0.0,0.0,0.0,0.0,0.0,0.0,0.0];

diff --git a/web/js/three3d.js b/web/js/three3d.js
@@ -4,18 +4,24 @@
 
 import * as THREE from "three";
 import { GLTFLoader } from "https://cdn.jsdelivr.net/npm/three@0.160.0/examples/jsm/loaders/GLTFLoader.js";
-import { FACE_TRIANGLES, FACE_UV } from "./facemesh.js";
+import { FACE_EXTRA, FACE_EXTRA_ALPHA, FACE_TRIANGLES, FACE_UV } from "./facemesh.js";
 
 // Face paint shading, as in the app's FaceMeshProgram: the skin under each pixel divided by the
 // face's usual brightness (measured at the cheeks, forehead and nose bridge) lights the paint.
 const SHADING = 0.85;
 const REF_POINTS = [50, 280, 151, 6];
+const MESH_VERTICES = 468 + FACE_EXTRA.length / 3;
 const PAINT_VERTEX = `
   uniform vec2 uCrop;
+  attribute float alpha;
   varying vec2 vUv;
   varying vec2 vSkin;
+  varying float vAlpha;
+  varying float vExt;
   void main() {
     vUv = uv;
+    vAlpha = alpha;
+    vExt = alpha < 1.0 ? 1.0 : 0.0; // the forehead/chin extension (it fades out)
     vSkin = 0.5 + position.xy * uCrop * 0.5;
     gl_Position = vec4(position.xy, 0.0, 1.0);
   }`;
@@ -24,15 +30,18 @@ const PAINT_FRAGMENT = `
   uniform sampler2D uSkin;
   uniform vec2 uCrop;
   uniform vec2 uRef[4];
+  uniform float uSkinOn;
   uniform float uShade;
   uniform float uOpacity;
   varying vec2 vUv;
   varying vec2 vSkin;
+  varying float vAlpha;
+  varying float vExt;
   float lum(vec2 p) { return dot(texture2D(uSkin, p).rgb, vec3(0.299, 0.587, 0.114)); }
   void main() {
     vec4 c = texture2D(uTex, vUv);
     vec3 rgb = c.rgb;
-    if (uShade > 0.0) {
+    if (uSkinOn > 0.5) {
       float usual = 0.0;
       for (int i = 0; i < 4; i++) {
         vec2 p = 0.5 + uRef[i] * uCrop * 0.5;
@@ -40,10 +49,12 @@ const PAINT_FRAGMENT = `
           + lum(p + vec2(0.0, 0.006)) + lum(p - vec2(0.0, 0.006));
       }
       usual /= 20.0;
-      float light = clamp(lum(vSkin) / max(usual, 0.05), 0.3, 1.6);
-      rgb *= mix(1.0, light, uShade);
+      float light = lum(vSkin) / max(usual, 0.05);
+      rgb *= mix(1.0, clamp(light, 0.3, 1.6), uShade);
+      // On the extension, much darker than the face usually means hair: fade out there.
+      c.a *= mix(1.0, smoothstep(0.35, 0.65, light), vExt);
     }
-    float a = c.a * uOpacity;
+    float a = c.a * uOpacity * vAlpha;
     gl_FragColor = vec4(rgb * a, a);
   }`;
 
@@ -127,13 +138,14 @@ export class FaceModels {
       let mesh = this.paintMeshes[i];
       if (!mesh) {
         const g = new THREE.BufferGeometry();
-        g.setAttribute("position", new THREE.BufferAttribute(new Float32Array(468 * 3), 3));
+        g.setAttribute("position", new THREE.BufferAttribute(new Float32Array(MESH_VERTICES * 3), 3));
         g.setAttribute("uv", new THREE.BufferAttribute(Float32Array.from(FACE_UV), 2));
+        g.setAttribute("alpha", new THREE.BufferAttribute(Float32Array.from([...new Array(468).fill(1), ...FACE_EXTRA_ALPHA]), 1));
         g.setIndex(FACE_TRIANGLES);
         mesh = new THREE.Mesh(g, new THREE.ShaderMaterial({
           uniforms: {
             uTex: { value: null }, uSkin: { value: null }, uCrop: { value: new THREE.Vector2(1, 1) },
-            uRef: { value: [0, 1, 2, 3].map(() => new THREE.Vector2()) }, uShade: { value: 0 }, uOpacity: { value: 1 },
+            uRef: { value: [0, 1, 2, 3].map(() => new THREE.Vector2()) }, uShade: { value: 0 }, uSkinOn: { value: 0 }, uOpacity: { value: 1 },
           },
           vertexShader: PAINT_VERTEX,
           fragmentShader: PAINT_FRAGMENT,
@@ -146,6 +158,11 @@ export class FaceModels {
       }
       const attr = mesh.geometry.attributes.position;
       for (let k = 0; k < 468; k++) attr.setXYZ(k, pos[k * 2], pos[k * 2 + 1], 0);
+      // Up the forehead and under the chin: carried on outwards from the tracked outline (as in the app).
+      for (let k = 0; k < FACE_EXTRA.length / 3; k++) {
+        const o = FACE_EXTRA[k * 3], r = FACE_EXTRA[k * 3 + 1], e = FACE_EXTRA[k * 3 + 2];
+        attr.setXYZ(468 + k, pos[o * 2] + (pos[o * 2] - pos[r * 2]) * e, pos[o * 2 + 1] + (pos[o * 2 + 1] - pos[r * 2 + 1]) * e, 0);
+      }
       attr.needsUpdate = true;
       const u = mesh.material.uniforms;
       u.uTex.value = tex;
@@ -154,6 +171,7 @@ export class FaceModels {
       // already keeps it). uRef: where the face's usual brightness is measured.
       u.uShade.value = source && blend !== "Multiply" ? SHADING : 0;
       u.uSkin.value = this.skin ?? null;
+      u.uSkinOn.value = source ? 1 : 0;
       u.uCrop.value.set(sx ?? 1, sy ?? 1);
       REF_POINTS.forEach((p, k) => u.uRef.value[k].set(pos[p * 2], pos[p * 2 + 1]));
       mesh.visible = true;

diff --git a/docs/filter-format.md b/docs/filter-format.md
@@ -163,6 +163,11 @@ A picture laid over the face mesh: it bends with every blink, smile and head tur
 
 Transparent parts of the picture leave the skin as it is. A square picture of 1024 px is plenty.
 
+The shaded band around the top and bottom of the template is the **extension** (Lensmith 0.12.3+):
+the mesh carries on up the forehead towards the hairline and a little under the chin, fading out
+towards its outer edge and wherever there's hair. Paint into it for full-face looks; older apps just
+don't draw it. Normal and Screen paint also take on the skin's light, shadows and texture.
+
 ## Thumbnail
 
 A package may carry the filter's own picture at the top level: `thumbnail.png`, `thumbnail.jpg`
